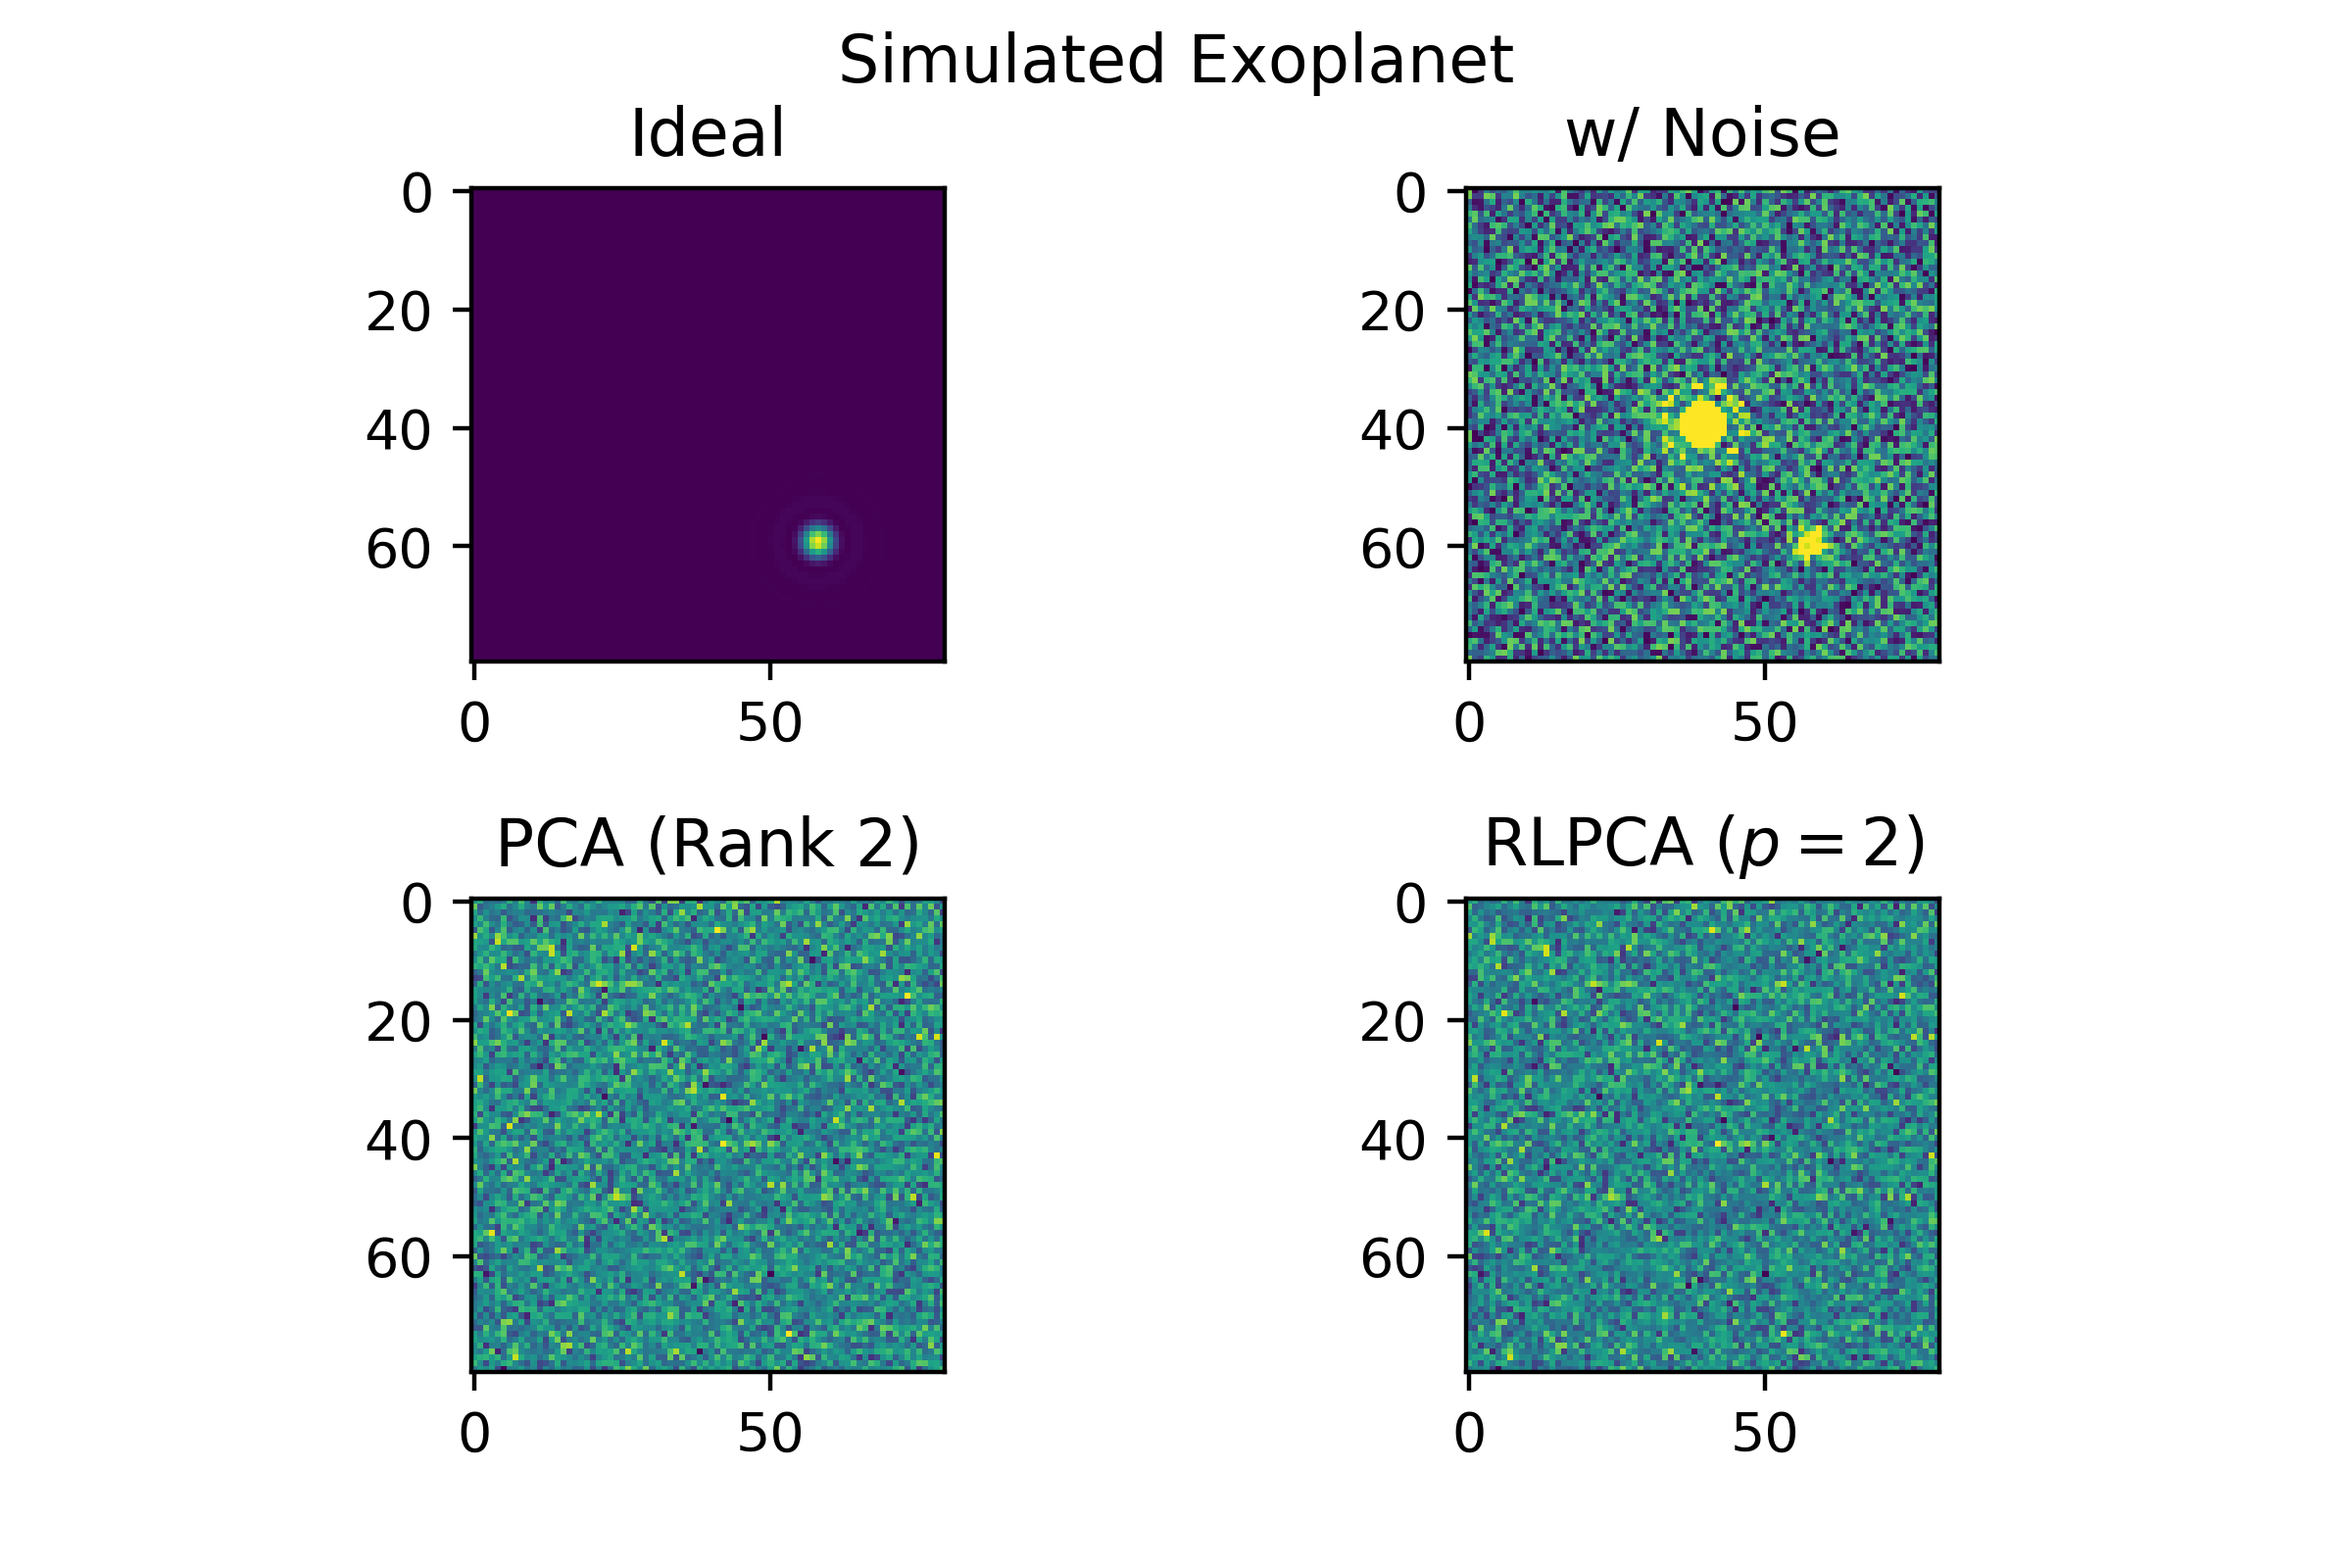
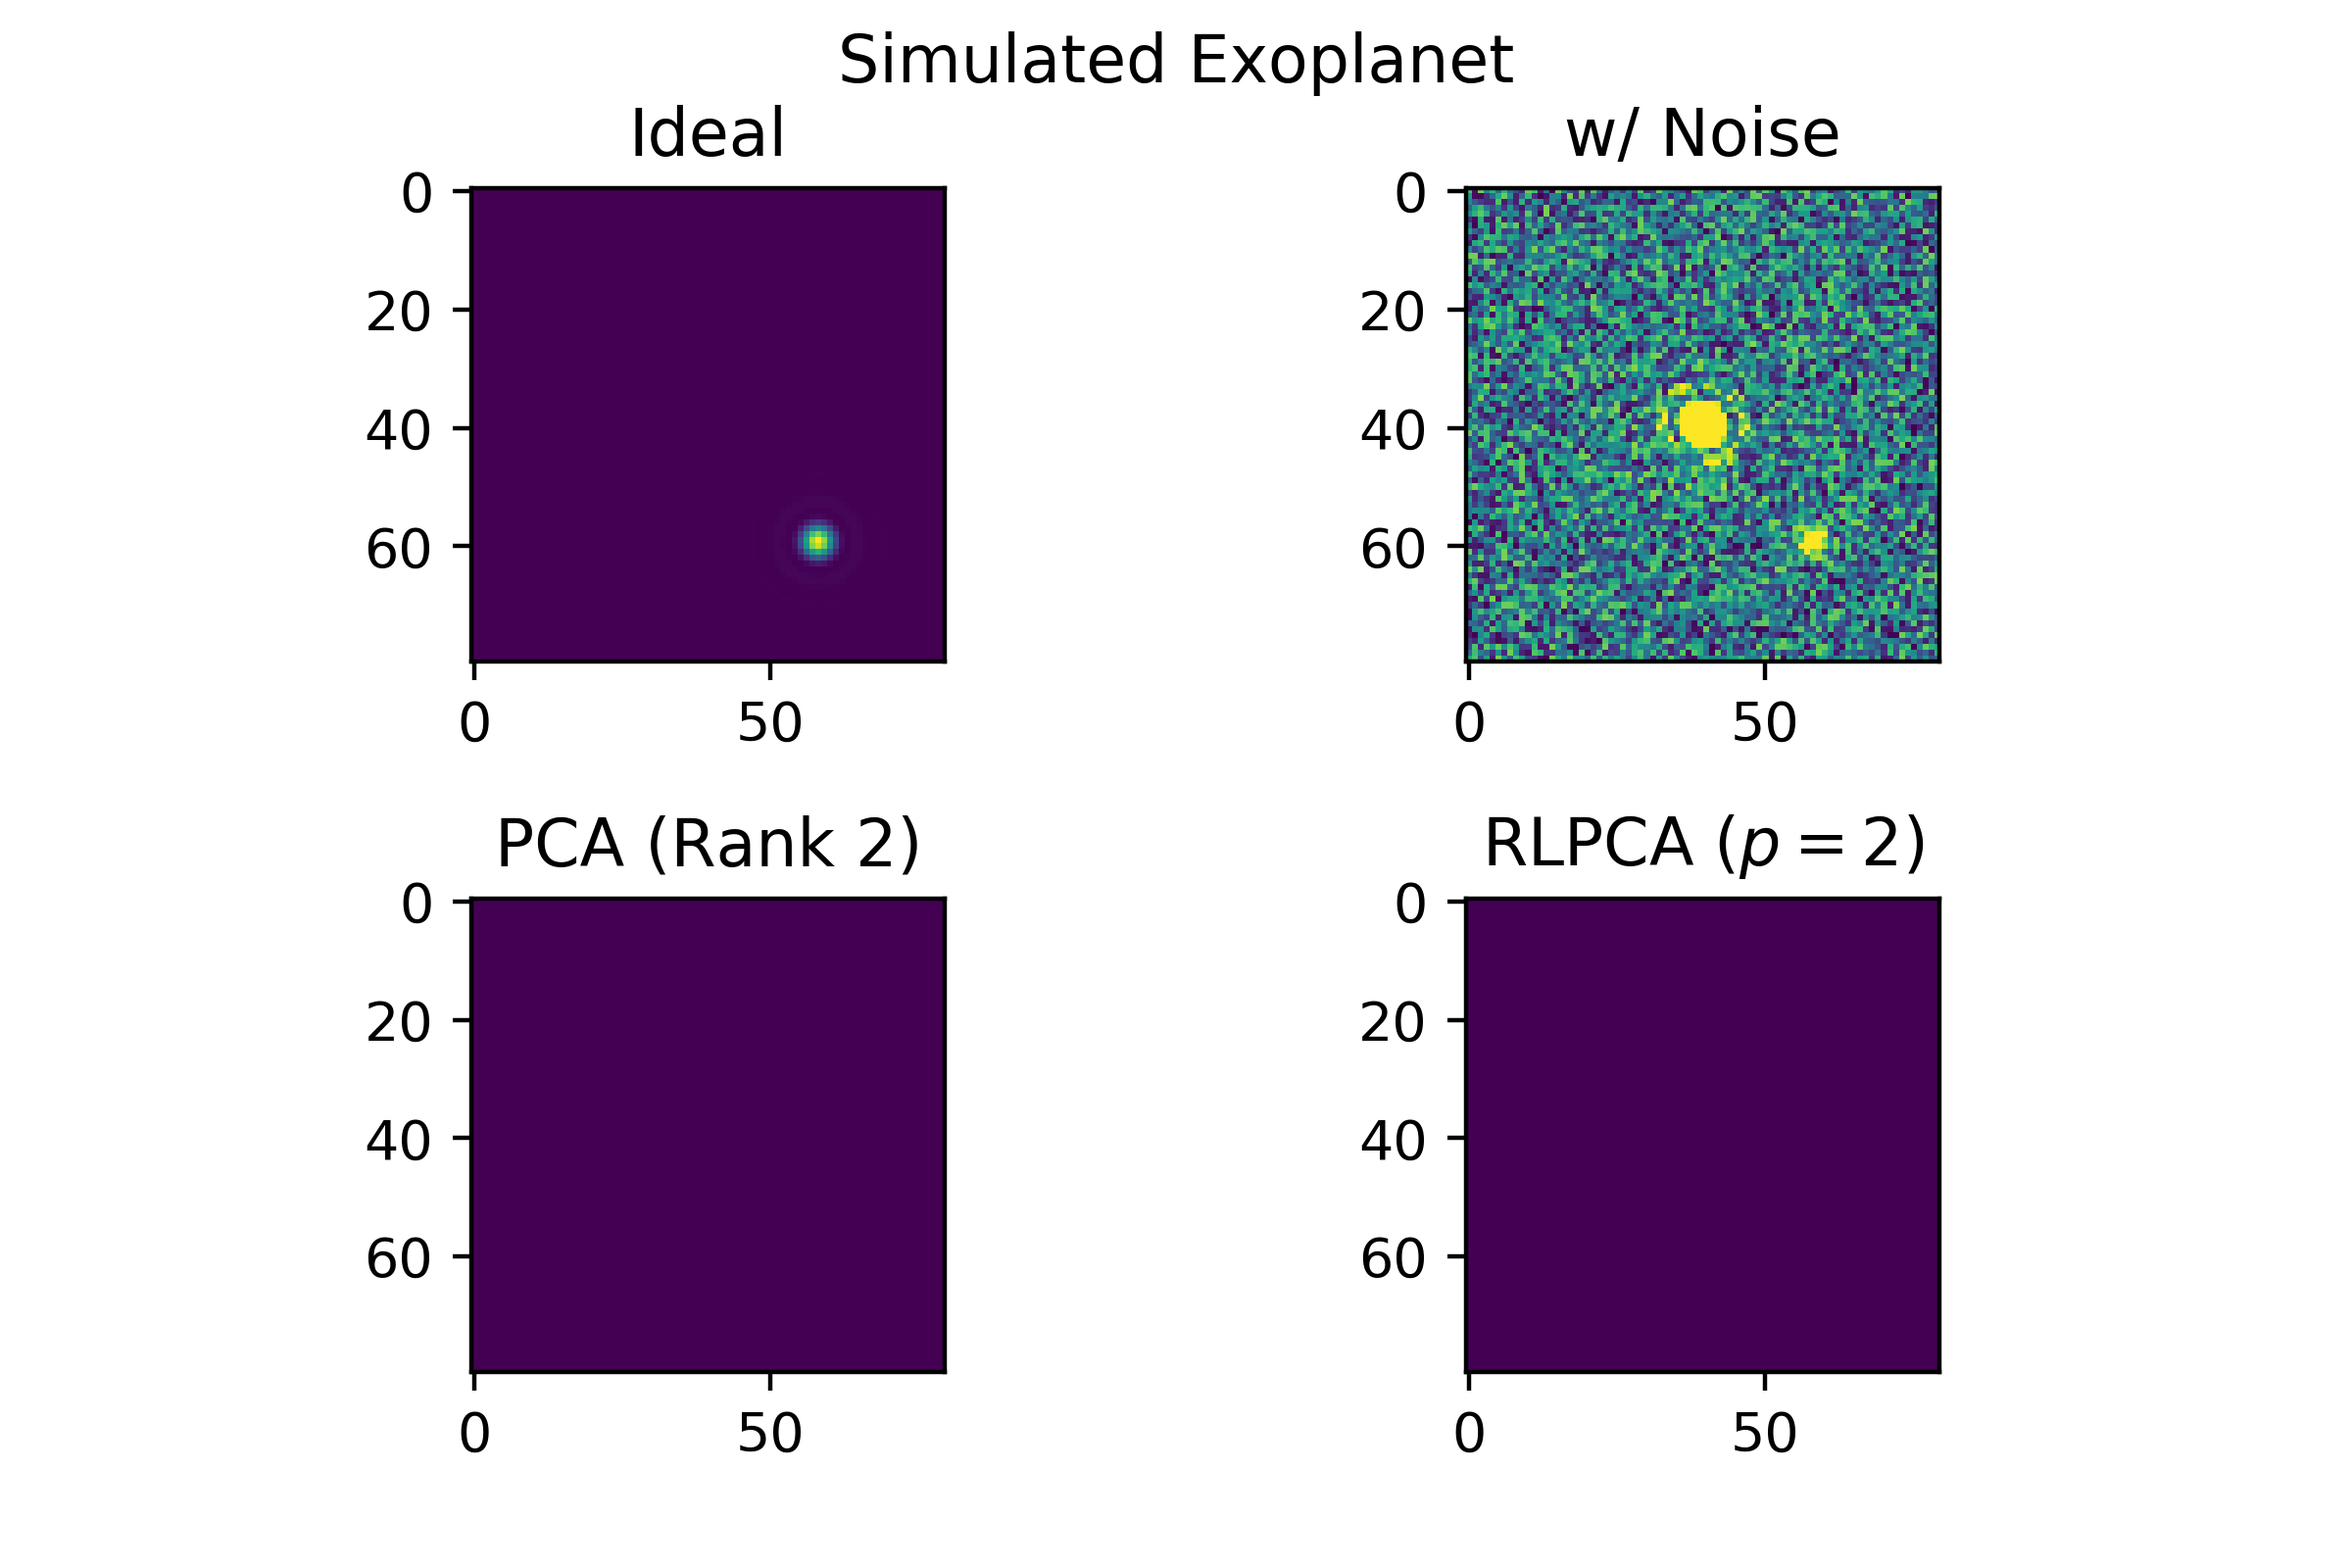
update

Changed region(s): [[0.625, 0.0938, 0.8438, 0.4375], [0.625, 0.5625, 0.8438, 0.875], [0.1875, 0.5625, 0.4062, 0.875]]

diff --git a/reflesspca.py b/reflesspca.py
@@ -210,10 +210,10 @@ plt.imshow(cube_real[0], vmin=0, vmax=1)
 
 plt.subplot(2, 2, 3)
 plt.title("PCA (Rank 2)")
-plt.imshow(mat2frame(S_pca))
+plt.imshow(mat2frame(S_pca), vmin=0, vmax=1)
 
 plt.subplot(2, 2, 4)
 plt.title("RLPCA ($p=2$)")
-plt.imshow(processed_frame)
+plt.imshow(processed_frame, vmin=0, vmax=1)
 
 plt.savefig("figure.png", dpi=400)
